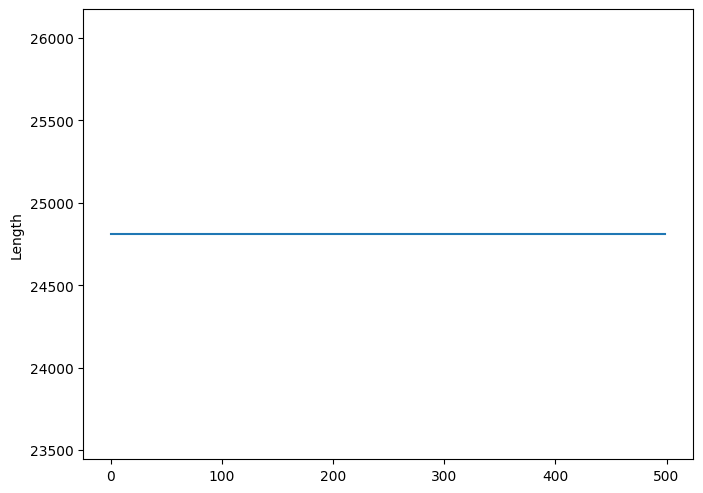
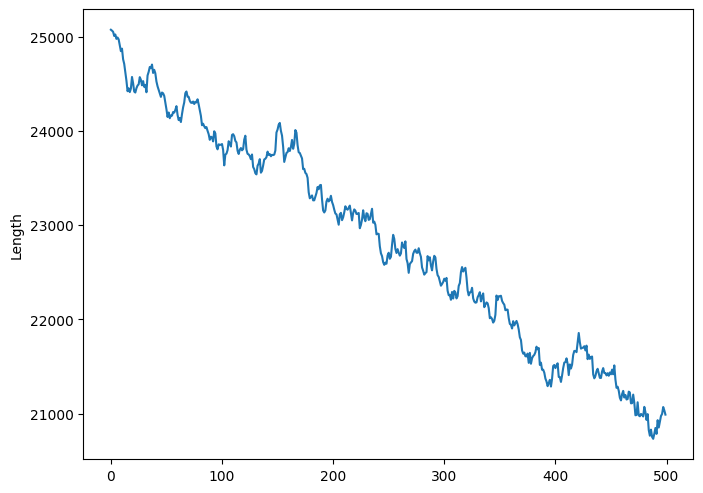
crossing children = half of both parents side by side + remove duplicates + add missing flowers to the end -> needs testing

diff --git a/main.py b/main.py
@@ -64,16 +64,37 @@ def sortPopulation(fitnesses, population):
 
 
 # Crosses first half and last half of two genomes ; returns new genome
-def crossing(first_half, last_half, half):
+def crossing(first_half, last_half, half, flowList):
     cross = Path.Path()
     for i in range(half):
         cross.addFlower(first_half[i])
-    for i in range(half, FLOWERS_NUMBER):
+    for i in range(half, FLOWERS_NUMBER - 1):
         cross.addFlower(last_half[i])
+    # Removes duplicates
+    cross.setOrder(list(dict.fromkeys(cross.getOrder())))
+    # Adds missing flowers
+    indexList = []
+    for flower in cross.getOrder():
+        indexList.append(flower.getIndex())
+    for i in range(49):
+        if i not in indexList:
+            missingFlower = getFlowerById(flowList, i)
+            cross.addFlower(missingFlower)
     cross.calculateLength()
     return cross
 
 
+def crossover(population, bestL, flowList):
+    half = int(FLOWERS_NUMBER / 2) - 1
+    orders = []
+    for best in bestL:
+        orders.append(best.getOrder())
+    for i in range(len(bestL) - 3):
+        population.append(crossing(orders[i], orders[i + 2], half, flowList))
+    return population
+
+
+"""
 def crossover(population, bestL):
     half = int(FLOWERS_NUMBER / 2) - 1
     orders = []
@@ -88,6 +109,7 @@ def crossover(population, bestL):
                 population.append(cross)
                 # population.append(crossing(orders[i], orders[j], half))
     return population
+"""
 
 
 # 2 flowers switch places in every path of the population
@@ -99,24 +121,25 @@ def mutation(population):
         while pos2 == pos1:
             pos2 = random.randint(0, FLOWERS_NUMBER - 2)
         path = individual.getOrder()
-        first = path[pos1]
-        second = path[pos2]
+        first_flower = path[pos1]
+        second_flower = path[pos2]
         path.pop(pos1)
         path.pop(pos2)
-        path.insert(pos1, second)
-        path.insert(pos2, first)
+        path.insert(pos1, second_flower)
+        path.insert(pos2, first_flower)
     return population
 
 
+# Removes worst individuals to reach max number of individuals
 def removingWorst(new):
     i = len(new) - 1
-    while i != 99:
+    while i != POPULATION_COUNT - 1:
         new.pop(i)
         i -= 1
     return new
 
 
-# Generates individuals in a population
+# Generates random individuals for the very first generation
 def generatePopulation(population, flowList, count):
     for pop in range(count):
         individual = Path.Path()
@@ -131,23 +154,22 @@ def generatePopulation(population, flowList, count):
 # Generates first generation
 def generateFirstGeneration(fList):
     first = []
-    first = generatePopulation(first, fList, POPULATION_COUNT - len(first))  # 1 )
-    fitnessDic = fitness(first)  # 2 )
+    first = generatePopulation(first, fList, POPULATION_COUNT - len(first))
+    fitnessDic = fitness(first)
     fitnessDic = sortFitnesses(fitnessDic)
     first = sortPopulation(fitnessDic, first)
     return first
 
 
 # Generates a new generation with previous one
-def generateNewGeneration(previous):
+def generateNewGeneration(previous, flowList):
     new = previous
     bestList = []
     for i in range(20):
         bestList.append(new[i])
 
-    new = mutation(new)  # 6 ) 80 other members
-
-    new = crossover(new, bestList)  # 4 ) added 2 children per couple so 20
+    new = mutation(new)  # 6 ) last 80 members will be mutated
+    new = crossover(new, bestList, flowList)  # 4 ) 400 children are generated
 
     # Sorting population
     new_fitnessDic = fitness(new)  # 2 )
@@ -160,7 +182,7 @@ def generateNewGeneration(previous):
 
 
 # Generates GENERATION_COUNT_MAX generations and returns the last one
-def cycle(fList, graph, nodePos):
+def cycle(fList, graph, nodePos, flowList):
     averageList = []
     # First generation
     firstPopulation = generateFirstGeneration(fList)
@@ -171,7 +193,7 @@ def cycle(fList, graph, nodePos):
 
     # New generation
     for i in range(2, GENERATION_COUNT_MAX + 1):
-        newGeneration = generateNewGeneration(previousGen)
+        newGeneration = generateNewGeneration(previousGen, flowList)
         averageList.append(calculateAverage(newGeneration))
         """
         # Printing best bee of this generation
@@ -211,7 +233,7 @@ flowersList = initFlowersList(data)
 G, pos = graphPrinting.initPrintingGraph(flowersList)
 
 print("-- GENERATIONS --\nBe patient !")
-last_generation, averageL = cycle(flowersList, G, pos)
+last_generation, averageL = cycle(flowersList, G, pos, flowersList)
 best_path = last_generation[0]
 printPopulation(last_generation, GENERATION_COUNT_MAX)
 print("\nBEST PATH OF LAST GENERATION : ")
@@ -220,8 +242,3 @@ print("LENGTH", len(last_generation))
 
 # Generates graph showing averageL of each generation compared to the others
 graphPrinting.printAverageGraph(averageL)
-
-"""
-20 mere 10 mere 20 pere
-20 pere 10 pere 20 mere
-"""
